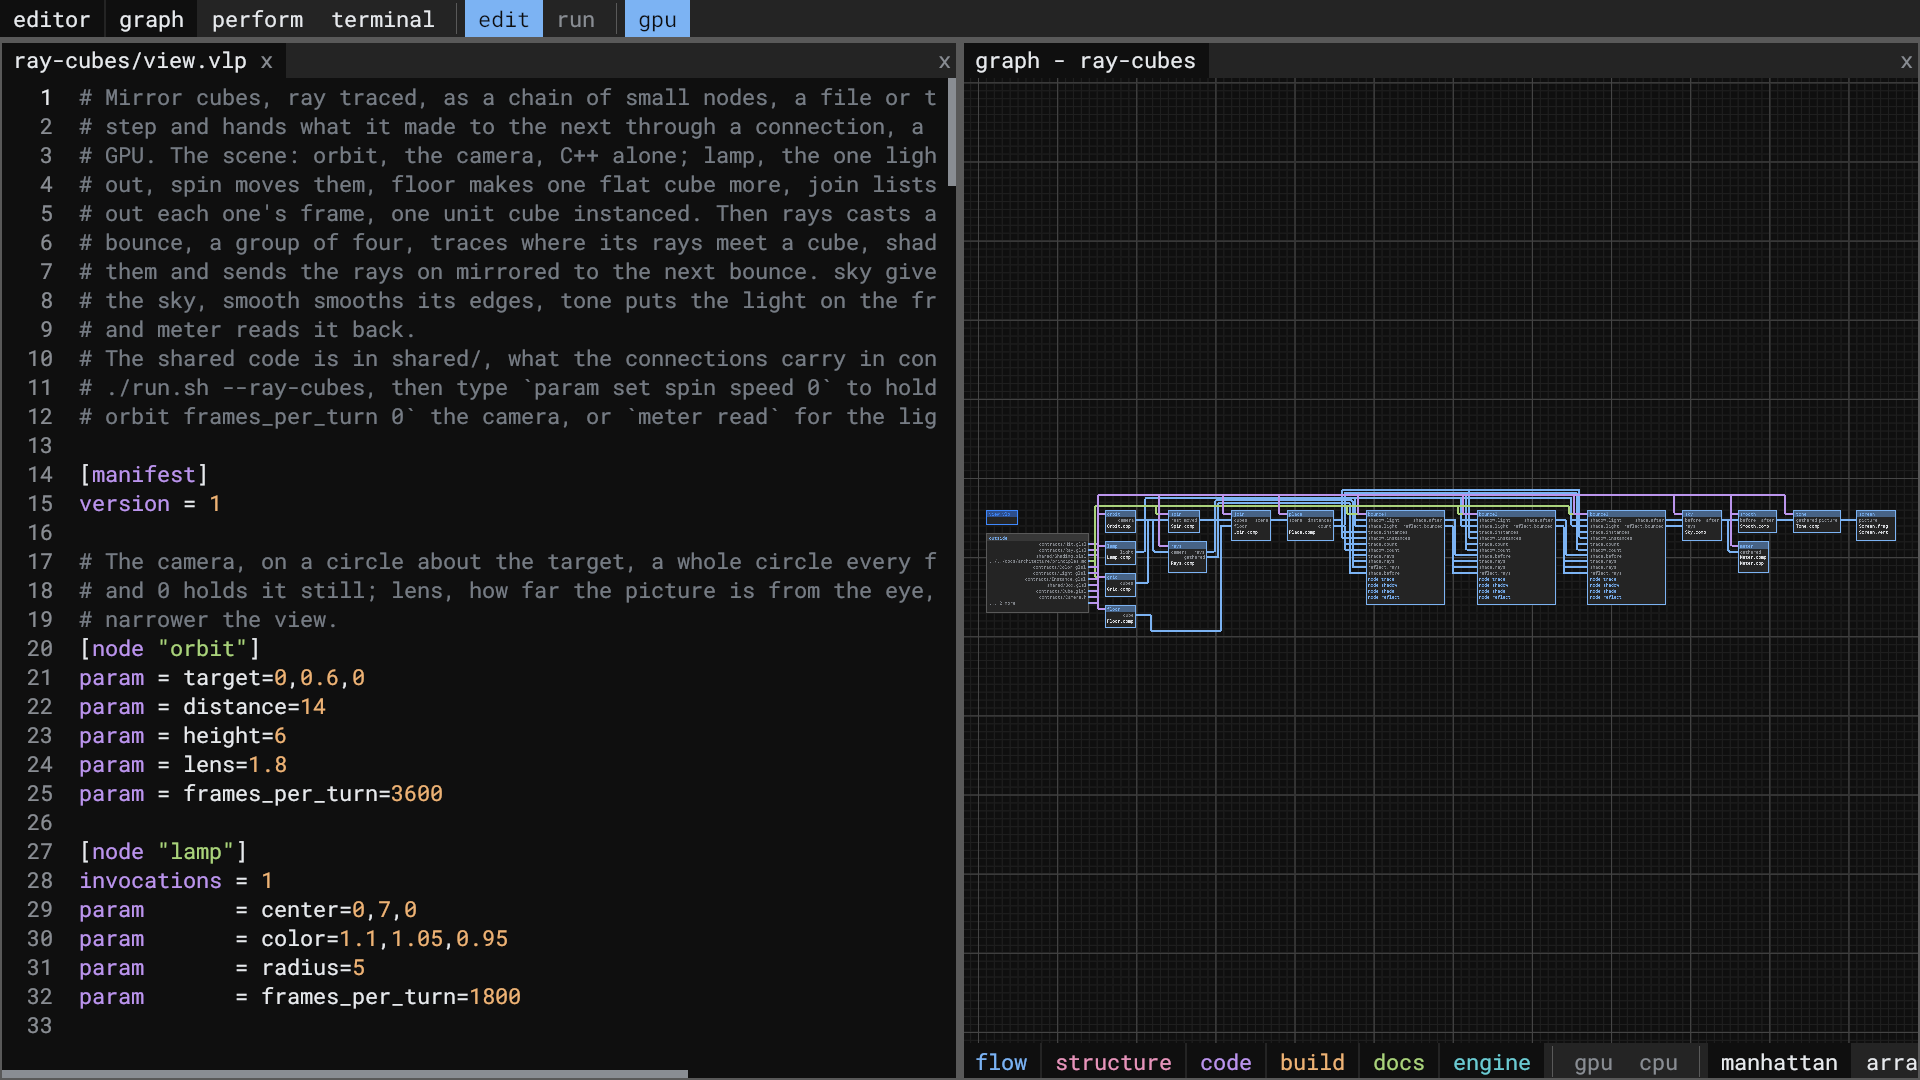
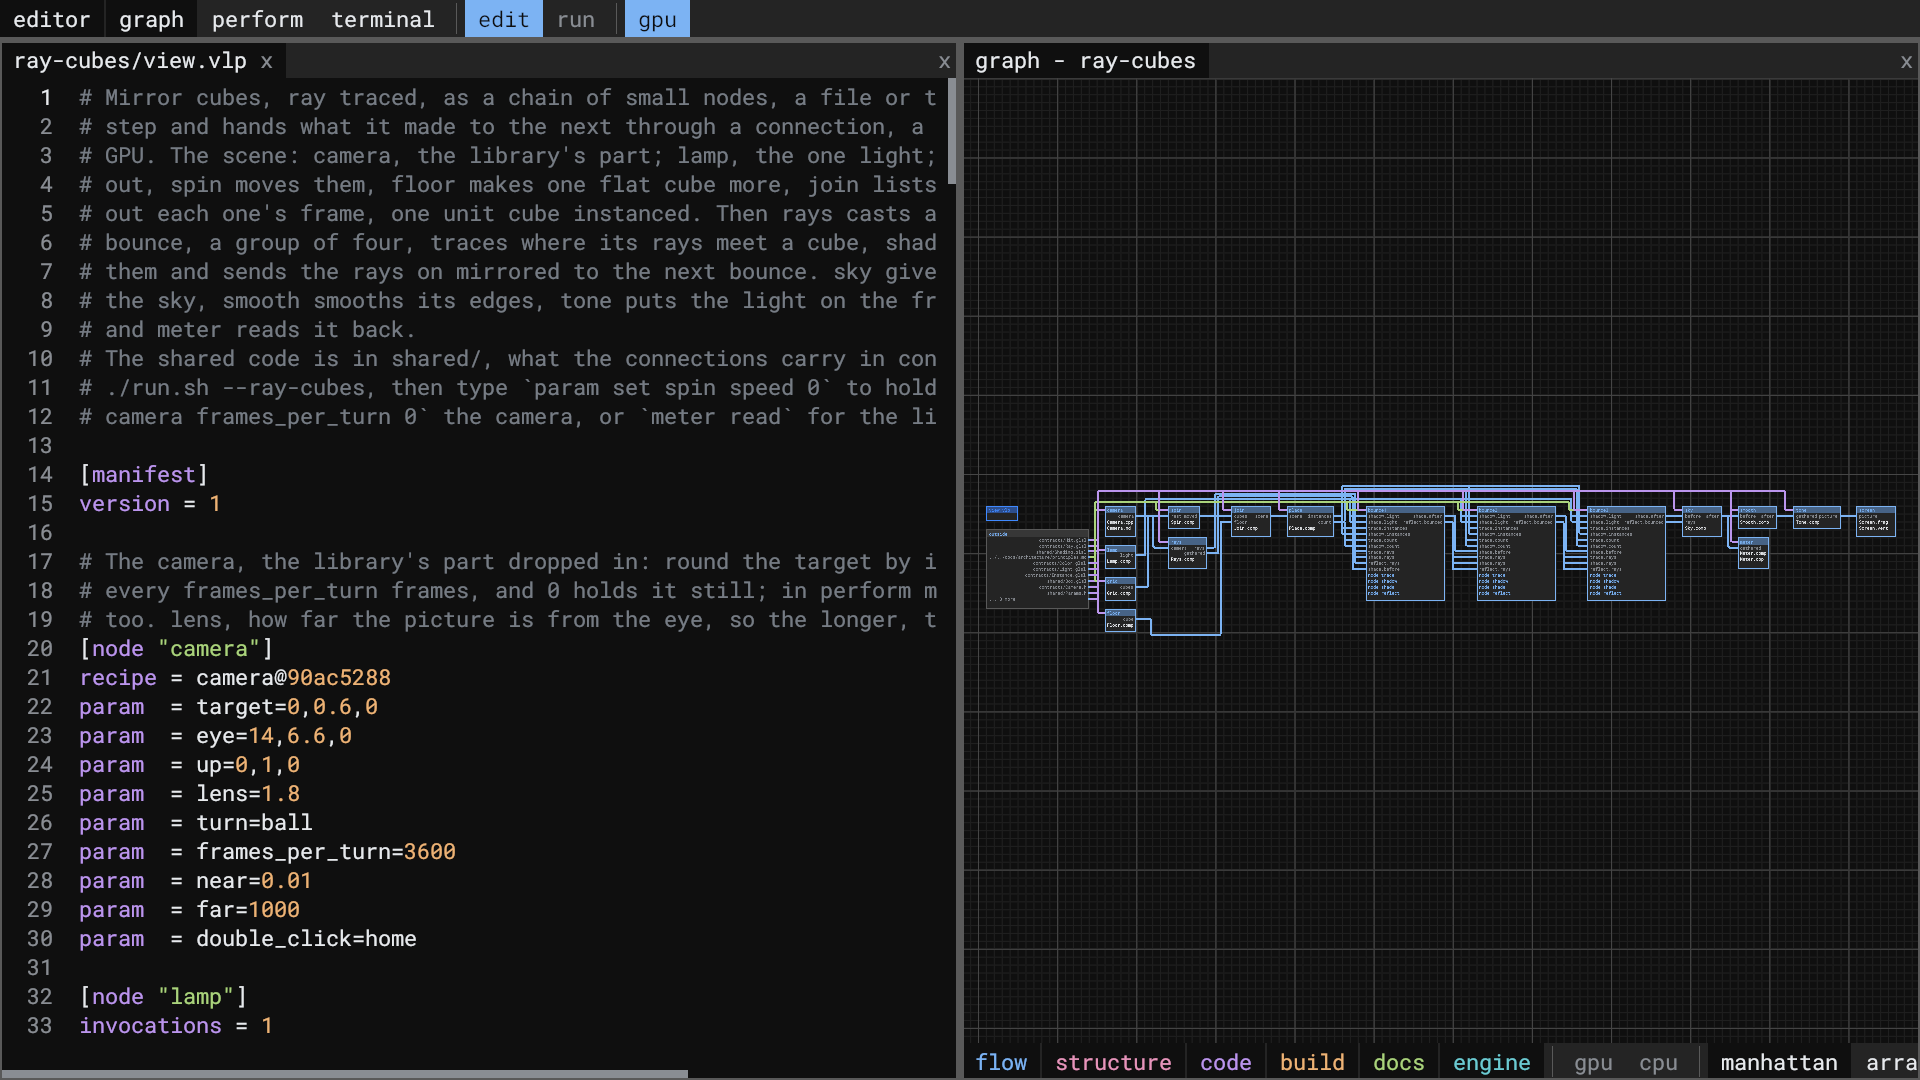
readme: pictures retaken with the camera part
The release build retook them on the pinned lavapipe, as the images
target now does. Eight change, each by the camera part alone: the
cover opens Camera.cpp and info camera; the manifest shows ray-cubes'
camera node; info rays in cli and tile-terminal names camera.camera;
tile-code shows Rays.comp's comment; the dive's and graph-ide's
library level holds the camera part; perform's cubes move 26 pixels
as the camera's eye comes from a turn rather than a sine and cosine.

The cover's editor scrolls on to the Camera class and its bind, as
Orbit's showed its class, past the constants and the comment above
it. A second retake wrote the same bytes.

diff --git a/src/tools/update-readme-images.py b/src/tools/update-readme-images.py
@@ -150,18 +150,18 @@ HELD = ["param set spin speed 0", "param set camera frames_per_turn 0",
 # caret blinks: the picture is the same at whatever frame it is taken. No line shows an
 # absolute path, which names the copy, a new folder each run. The sizes and the text's
 # zoom are for the README's column, about 880 pixels wide, so the text reads there.
-# The cover: a node's C++ beside the project's graph and what it draws, wide. The text
-# small enough that a narrow editor shows the code's width, the graph and the project
-# wider; the wheel over the Perform panel zooms the project in until it fills the panel's
-# width, so no bars show beside it, the cubes kept in view. With interact on, the project
-# takes the wheel, so the scene turns it off for that, as the button under the panel
-# does, and on again.
+# The cover: a node's C++, its class from the top, beside the project's graph and what it
+# draws, wide. The text small enough that a narrow editor shows the code's width, the
+# graph and the project wider; the wheel over the Perform panel zooms the project in until
+# it fills the panel's width, so no bars show beside it, the cubes kept in view. With
+# interact on, the project takes the wheel, so the scene turns it off for that, as the
+# button under the panel does, and on again.
 HERO = {
     "hero": [*CLEAR, *typed("view load ray-cubes"), *HELD, *typed("open Camera.cpp"),
              *typed("info camera"), *panels("hide", "terminal"), *ratio("top", 0.4),
              *ratio("side", 0.46), *zoom_out(7), *fit(1682, 193, 13, 2400),
              "ide: zoom reset", *zoom(5), "ide: param unset ide.panes interact",
-             *scroll(500, 400, -7, 2400), *scroll(1680, 717, 8.5, 2400),
+             *scroll(500, 400, -16.34, 2400), *scroll(1680, 717, 8.5, 2400),
              "ide: param set ide.panes interact yes", "ide: focus"],
 }
 # Three squares side by side: the graph, a shader and the terminal, each given the window.
